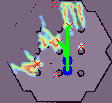
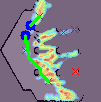
a

diff --git a/main.py b/main.py
@@ -6,7 +6,7 @@ from scipy.optimize import linear_sum_assignment
 from skimage.graph import route_through_array
 
 # ---------------- Détection des points d'intérêt ----------------
-class DetectionPointsInteretsUltraUltra:
+class DetectionPointsInterets:
     """Détection ultra-optimisée des points d'intérêt + visualisation avec robots et trajets."""
 
     def __init__(self, path: str, top_k: int = 50, dossier_debug: str = "debug"):
@@ -162,7 +162,7 @@ class DetectionPointsInteretsUltraUltra:
 
 
 # ---------------- Multi-Robot Optimisé ----------------
-class MultiRobotUltraUltra:
+class MultiRobot:
     def __init__(self, heatmap: np.ndarray, robots: List[Tuple[int,int]], points_interet: List[Tuple[int,int,float,int]]):
         self.heatmap = heatmap
         self.robots = robots
@@ -223,9 +223,9 @@ class MultiRobotUltraUltra:
 if __name__ == "__main__":
     import time
     a = time.time()
-    det = DetectionPointsInteretsUltraUltra("map.pgm", top_k=50)
-    robots = [(67,60), (67,70)]
-    multi = MultiRobotUltraUltra(det.heatmap_normalisee, robots, det.points_interet)
+    det = DetectionPointsInterets("map.pgm", top_k=50)
+    robots = [(25,35), (30,25)]
+    multi = MultiRobot(det.heatmap_normalisee, robots, det.points_interet)
     targets, paths = multi.assign_targets_optimized()
     det.enregistrer_heatmap_overlay_points_robots(robots, targets, paths)
     print("[INFO] Temps total :", time.time()-a)
